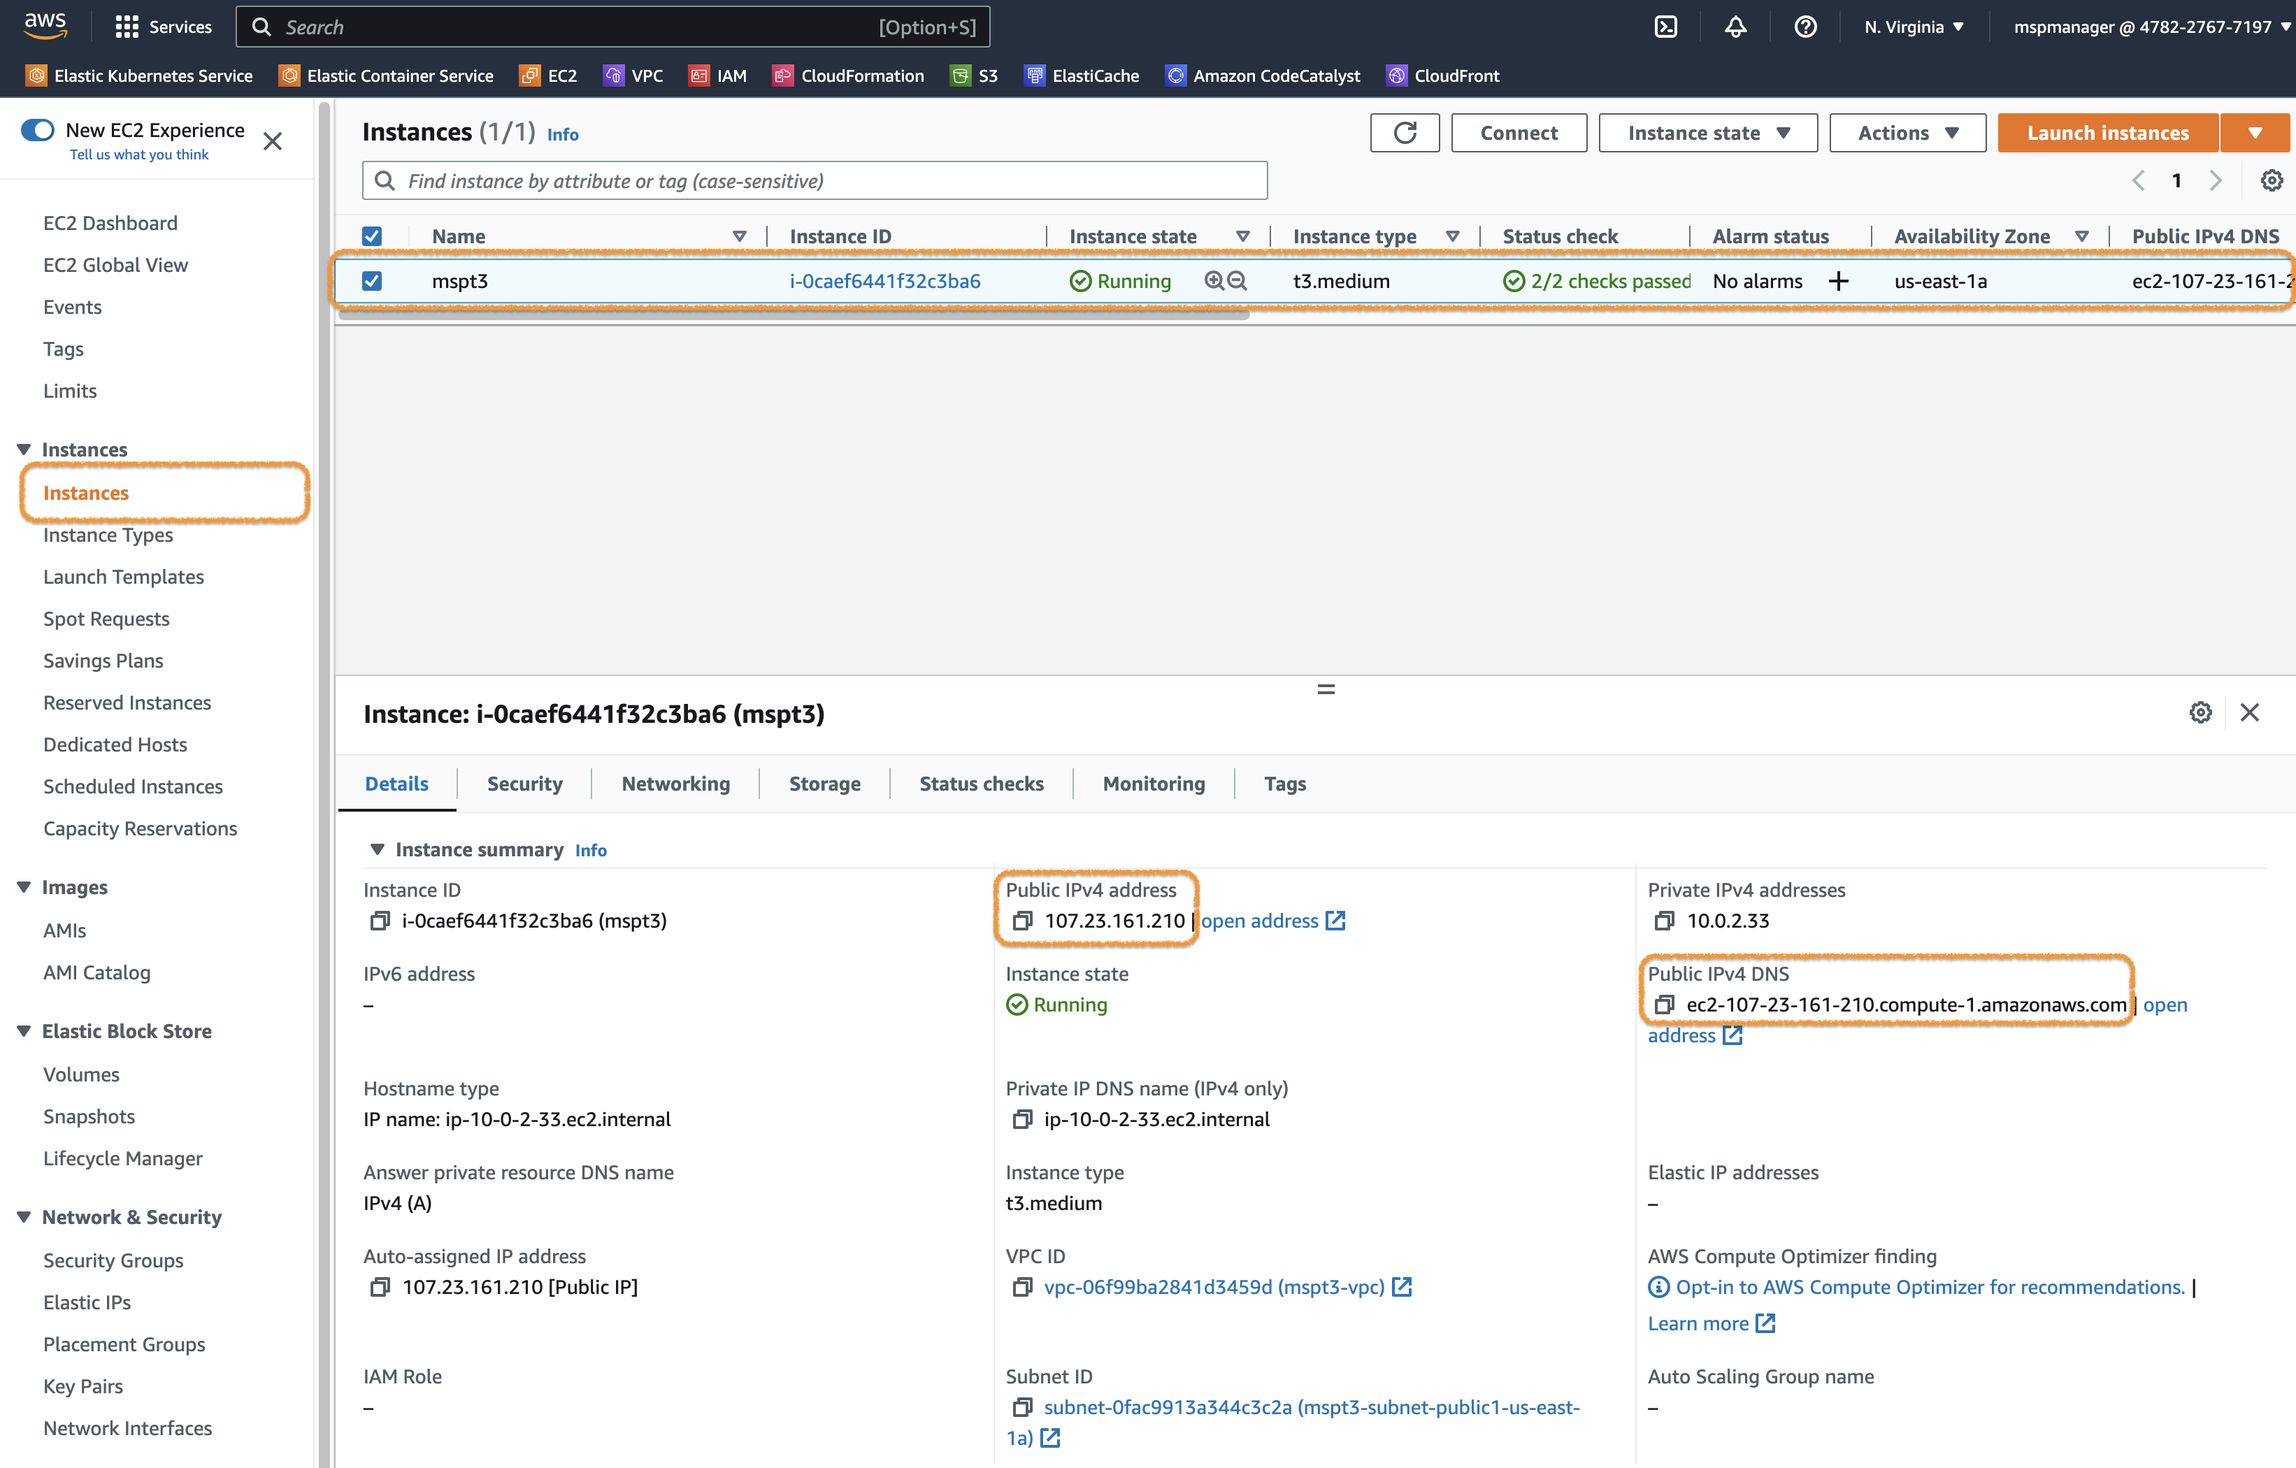
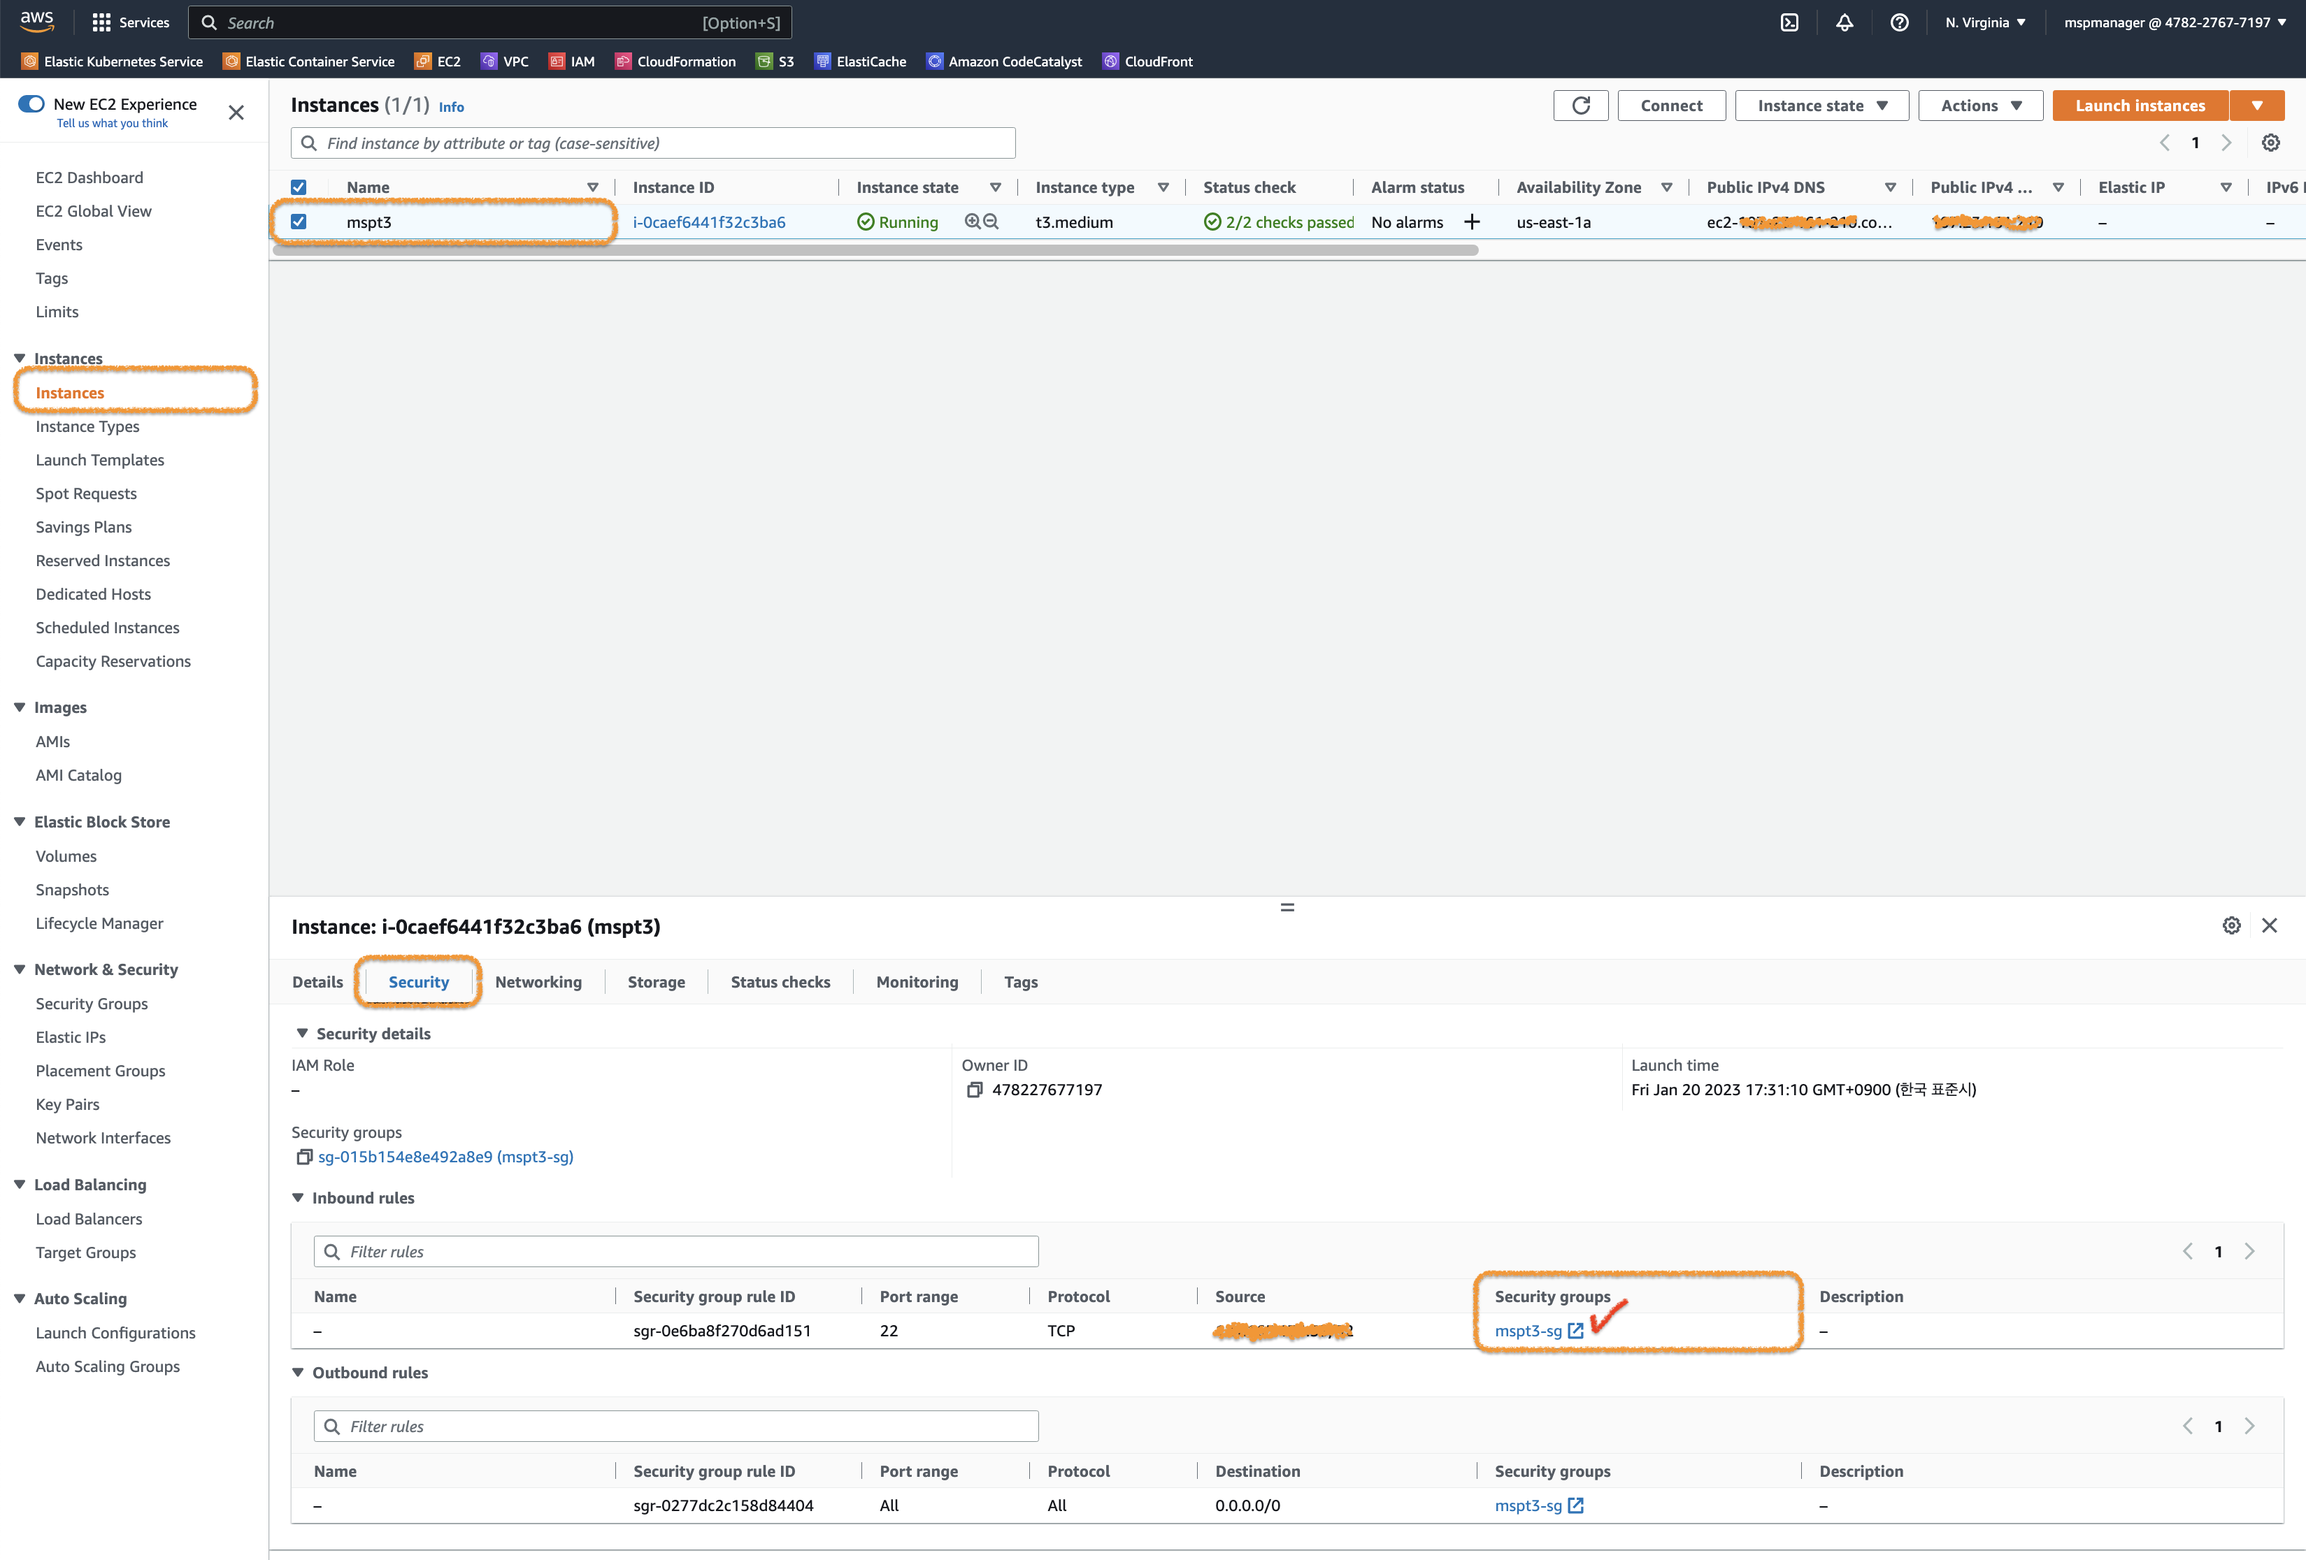
.

diff --git a/doc/[Hands-on] 01_Environment_Setup-Docker.md b/doc/[Hands-on] 01_Environment_Setup-Docker.md
@@ -145,6 +145,7 @@ Instance 이름을 **mspt3**로 하고, **AMI(Amazon Machine Image)** 중에서 
 | **Security group name**           | mspt3-sg              |
 | **Description**                   | sg for mspt3          |
 | **Inbound security groups rules** | ssh (TCP,22) , My IP  |
+
 > Security group은 우선 꼭 필요한 ssh (TCP,22) 만 My IP로 설정합니다. (이후에 추가로 설정합니다.)
 
 ---
@@ -159,16 +160,46 @@ Number of instances를 1로 하고 `Launch instance`버튼을 클릭합니다.
 
 ![h:400](img/aws_ec2_12.png)
 정상적으로 EC2 Instance가 생성되면 화면과 같이 표시됩니다.
+
 > SSH 접속을 위해 필요한 **Public IPv4 address** 또는 **Public IPv4 DNS** 정보를 기록해둡니다.
 
 ---
 
+과정중에는 SSH를 이용한 Instance 접속 외에도, 실행되는 애플리케이션 접속도 필요합니다.
+애플리케이션 접속을 위해서 추가적인 Security group 설정을 진행합니다.
+
+![h:400](img/aws_ec2_13.png)
+위와같이 EC2 Instance의 **Security** 탭에서 해당 **Security group**으로 이동합니다. (Security group명 옆의 아이콘 클릭)
+
+---
+
+![h:400](img/aws_ec2_14.png)
+Serurity group화면의 Inbound rules 탭에서 `Edit inbound rules` 버튼을 클릭합니다.
+
+---
+
+![h:350](img/aws_ec2_15.png)
+`Add rule` 버튼을 누르면 규칙을 추가할 수 있습니다. 아래 규칙을 추가해주세요.
+
+| **Type**   | **Port range** | Source |
+| ---------- | -------------- | ------ |
+| Custom TCP | 80             | My IP  |
+| Custom TCP | 443            | My IP  |
+| Custom TCP | 8080           | My IP  |
+| Custom TCP | 3000           | My IP  |
+| Custom TCP | 30000-32767    | My IP  |
+
+---
+
 ## VM Instance 접속하기
+
 생성된 VM Instance의 접속(SSH)은 다음의 방법 중 하나를 사용하면 됩니다.
+
 - **[접속방법1]** Terminal 프로그램 (e.g. PowerShell, cmder, iTerm, etc.)
 - **[접속방법2]** MobaXterm
 
 SSH 접속을 위해서는 다음을 먼저 확인해야 합니다.
+
 - VM Instance의 **Public IPv4 address** 또는 **Public IPv4 DNS**
 - Key pair (**mspt3.pem** 파일)
 - SSH 접속을 위한 Inbound traffic (Port:22) 이 허용되어 있는지 확인 (앞에서 이미 진행함.)
@@ -195,12 +226,14 @@ AWS Console에서 EC2 > Instances 화면으로 이동합니다.
 
 ![h:450](img/terminal2.png)
 위 그림과 같이 **Connect to instance** 화면에서 **SSH client** 탭을 클릭하고, 아래 표시되는 절차에 따라 접속을 진행합니다.
+
 > 윈도우즈 환경에서는 3번 절차 (chomod 400 mspt3.pem)를 진행할 수 없습니다. 다음장의 내용을 참고하세요.
 
 ---
 
 (윈도우즈 환경인 경우 3번 절차 처리방법)
 터미널 프로그램(e.g. PowerShell)에서 다음과 같이 실행합니다.
+
 ```shell
 > icacls.exe mspt3.pem /reset
 처리된 파일: mspt3.pem
@@ -212,6 +245,7 @@ AWS Console에서 EC2 > Instances 화면으로 이동합니다.
 처리된 파일: mspt3.pem
 1 파일을 처리했으며 0 파일은 처리하지 못했습니다.
 ```
+
 > **명령어** : `icacls.exe mspt3.pem /reset`
 > **명령어** : `icacls.exe mspt3.pem /GRANT:R "$($env:USERNAME):(R)"`
 > **명령어** : `icacls.exe mspt3.pem /inheritance:r`
@@ -219,6 +253,7 @@ AWS Console에서 EC2 > Instances 화면으로 이동합니다.
 ![h:200](img/terminal3.png) 그림과 같이 mspt3.pem 파일의 권한을 변경하는 것입니다.
 
 > 자세한 내용은은 [오류: 보호되지 않는 프라이빗 키 파일](https://docs.aws.amazon.com/ko_kr/AWSEC2/latest/UserGuide/TroubleshootingInstancesConnecting.html#troubleshoot-unprotected-key)의 내용을 참고하세요.
+
 ---
 
 ![h:500](img/terminal4.png)
@@ -236,6 +271,7 @@ MobaXterm을 실행하고 `Session` 버튼을 클릭합니다.
 
 ![h:450](img/mobaxterm2.png)
 접속방식은 `SSH`를 선택하고 다음 정보를 입력한 다음 `OK`버튼을 클릭하여 접속합니다.
+
 - **Remote host** : EC2 Instance의 **Public IPv4 address** 또는 **Public IPv4 DNS**
 - **Specify username** : ubuntu
 - **Use private key** : mspt3.pem
@@ -252,6 +288,7 @@ MobaXterm을 실행하고 `Session` 버튼을 클릭합니다.
 
 실습을 위해서 Docker 설치를 진행합니다.
 설치하는 방법은 아래 두 가지 방법이 있습니다.
+
 - [Docker Desktop](https://docs.docker.com/desktop/) : One-click-install application for your Mac, Linux, or Windows
 - [Docker Engine](https://docs.docker.com/engine/) : Open source containerization platform
 
@@ -261,8 +298,10 @@ MobaXterm을 실행하고 `Session` 버튼을 클릭합니다.
 > 우리가 만든 환경은 이 조건에 맞는 **Ubuntu 22.04(LTS)** 64bit 버젼 입니다.
 
 ### [Uninstall old versions](https://docs.docker.com/engine/install/ubuntu/#uninstall-old-versions)
+
 기존에 설치된 버젼이 있거나 다시 설치를 진행하려고 하는 경우 먼저 기존버젼 삭제를 진행합니다.
 처음 설치를 하는 경우라면, 생략하고 다음 단계를 진행합니다.
+
 ```bash
 ubuntu@ip-10-0-2-33:~$ sudo apt-get remove docker docker-engine docker.io containerd runc
 Reading package lists... Done
@@ -270,14 +309,17 @@ Building dependency tree... Done
 Reading state information... Done
 E: Unable to locate package docker-engine
 ```
+
 > **명령어** : `sudo apt-get remove docker docker-engine docker.io containerd runc`
 
 ---
 
 ### [Install using the repository](https://docs.docker.com/engine/install/ubuntu/#install-using-the-repository)
+
 Ubuntu의 [Advanced Packaging Tool (APT)](https://ubuntu.com/server/docs/package-management)를 이용해서 설치를 진행합니다.
 
 먼저 package index를 업데이트 합니다.
+
 ```bash
 ubuntu@ip-10-0-2-33:~$ sudo apt-get update
 Hit:1 http://us-east-1.ec2.archive.ubuntu.com/ubuntu jammy InRelease
@@ -290,11 +332,13 @@ Get:7 http://us-east-1.ec2.archive.ubuntu.com/ubuntu jammy-updates/universe amd6
 Fetched 2507 kB in 1s (3302 kB/s)
 Reading package lists... Done
 ```
+
 > **명령어** : `sudo apt-get update`
 
 ---
 
 다음은, HTTPS를 이용하기 위해서 몇 가지 패키지를 설치합니다.
+
 ```bash
 ubuntu@ip-10-0-2-33:~$ sudo apt-get install -y ca-certificates curl gnupg lsb-release
 Reading package lists... Done
@@ -310,27 +354,33 @@ gnupg is already the newest version (2.2.27-3ubuntu2.1).
 gnupg set to manually installed.
 0 upgraded, 0 newly installed, 0 to remove and 3 not upgraded.
 ```
+
 > **명령어** : `sudo apt-get install -y ca-certificates curl gnupg lsb-release`
 
 Docker GPG key를 추가합니다.
+
 ```bash
 ubuntu@ip-10-0-2-33:~$ sudo mkdir -p /etc/apt/keyrings
 ubuntu@ip-10-0-2-33:~$ curl -fsSL https://download.docker.com/linux/ubuntu/gpg | sudo gpg --dearmor -o /etc/apt/keyrings/docker.gpg
 ```
+
 > **명령어** : `sudo mkdir -p /etc/apt/keyrings`
 > **명령어** : `curl -fsSL https://download.docker.com/linux/ubuntu/gpg | sudo gpg --dearmor -o /etc/apt/keyrings/docker.gpg`
 
 ---
 
 Docker 설치를 위서 APT Repository를 설정합니다.
+
 ```bash
 ubuntu@ip-10-0-2-33:~$ echo \
   "deb [arch=$(dpkg --print-architecture) signed-by=/etc/apt/keyrings/docker.gpg] https://download.docker.com/linux/ubuntu \
   $(lsb_release -cs) stable" | sudo tee /etc/apt/sources.list.d/docker.list > /dev/null
 ```
+
 > **명령어** : `echo "deb [arch=$(dpkg --print-architecture) signed-by=/etc/apt/keyrings/docker.gpg] https://download.docker.com/linux/ubuntu $(lsb_release -cs) stable" | sudo tee /etc/apt/sources.list.d/docker.list > /dev/null`
 
 다시 Package index를 업데이트 합니다.
+
 ```bash
 ubuntu@ip-10-0-2-33:~$ sudo apt-get update
 Hit:1 http://us-east-1.ec2.archive.ubuntu.com/ubuntu jammy InRelease
@@ -342,6 +392,7 @@ Get:6 https://download.docker.com/linux/ubuntu jammy/stable amd64 Packages [11.9
 Fetched 385 kB in 1s (652 kB/s)
 Reading package lists... Done
 ```
+
 > **명령어** : `sudo apt-get update`
 
 ---
@@ -376,6 +427,7 @@ Fetched 113 MB in 1s (81.5 MB/s)
 
 ... 생략 ...
 ```
+
 > **명령어** : `sudo apt-get install -y docker-ce docker-ce-cli containerd.io docker-compose-plugin`
 
 ---
@@ -383,6 +435,7 @@ Fetched 113 MB in 1s (81.5 MB/s)
 설치 후 다음 설정을 진행합니다. ([Docker Engine post-installation steps](https://docs.docker.com/engine/install/linux-postinstall/))
 
 Docker daemon은 root 유저로 동작하고, Docker CLI(/usr/bin/docker)는 root 그룹/계정 권한을 가지고 있습니다.
+
 ```bash
 ubuntu@ip-10-0-2-33:~$ ps -ef | grep -i dockerd
 root        9282       1  0 07:09 ?        00:00:00 /usr/bin/dockerd -H fd:// --containerd=/run/containerd/containerd.sock
@@ -398,14 +451,17 @@ root가 아닌 계정(우리 실습환경의 user는 `ubuntu` 입니다.)을 이
 ```bash
 ubuntu@ip-10-0-2-33:~$ sudo groupadd docker
 ```
+
 > **명령어** : `sudo groupadd docker`
 > 이미 docker 그룹이 있을수도 있습니다. (groupadd: group 'docker' already exists)
 
 다음은 사용 중인 User(`ubuntu`)를 docker 그룹에 추가하고, 적용(docker 그룹으로 로그인)합니다.
+
 ```bash
 ubuntu@ip-10-0-2-33:~$ sudo usermod -aG docker $USER
 ubuntu@ip-10-0-2-33:~$ newgrp docker
 ```
+
 > **명령어** : `sudo usermod -aG docker $USER`
 > **명령어** : `newgrp docker`
 
@@ -443,4 +499,5 @@ Share images, automate workflows, and more with a free Docker ID:
 For more examples and ideas, visit:
  https://docs.docker.com/get-started/
 ```
+
 > **명령어** : `docker run --rm hello-world`
